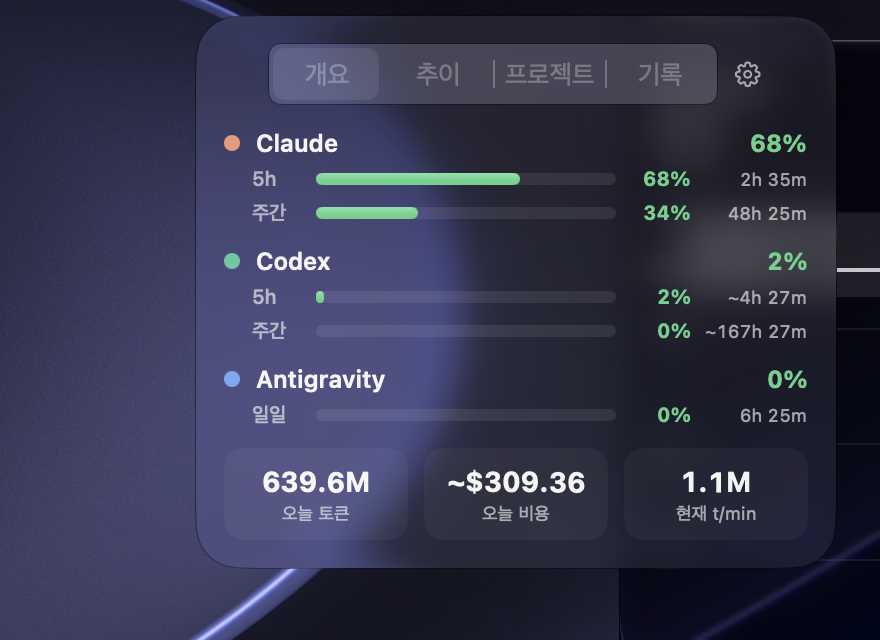
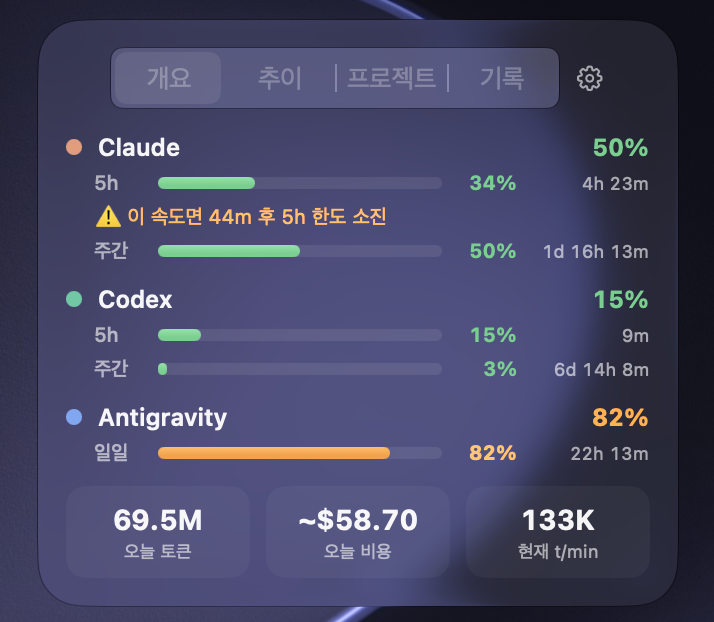
Update README screenshots

diff --git a/README.md b/README.md
@@ -42,9 +42,13 @@ curl -fsSL https://raw.githubusercontent.com/taeng0204/ai-glass/main/install.sh 
 | **재미** | 마일스톤 돌파 🎉 · 일일 신기록 🏆 · 사운드(옵션) — 통계도 중요하지만 감성도 중요하니까 |
 | **온보딩** | 첫 실행 시 웨이브 스타일·메뉴바 모드·에이전트를 라이브 프리뷰로 선택 |
 
-<p align="center">
-  <img src="docs/images/dashboard-overview.png" width="340" alt="대시보드">
-</p>
+## 스크린샷
+
+| 대시보드 메인 | HUD 확장 |
+|---|---|
+| <img src="docs/images/dashboard-overview.png" width="360" alt="대시보드 메인 — 에이전트별 사용량, 한도 경고, 오늘 토큰, 비용, 속도"> | <img src="docs/images/hud-expanded.png" width="300" alt="HUD 확장 — 에이전트별 5h, 주간, 일일 사용량"> |
+| 추이 차트 | 한도 알림 |
+| <img src="docs/images/dashboard-trends.png" width="360" alt="추이 차트 — 최근 7일 에이전트별 토큰 사용량"> | <img src="docs/images/limit-alert.png" width="260" alt="한도 임박 알림 — Claude 소진 임박 경고"> |
 
 <p align="center">
   <img src="docs/images/onboarding-waves.png" width="480" alt="온보딩 — 웨이브 스타일 선택">
